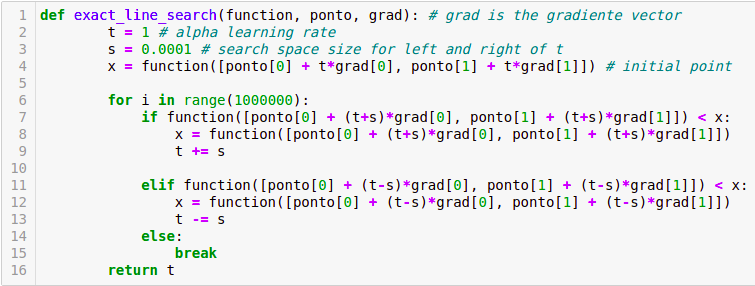
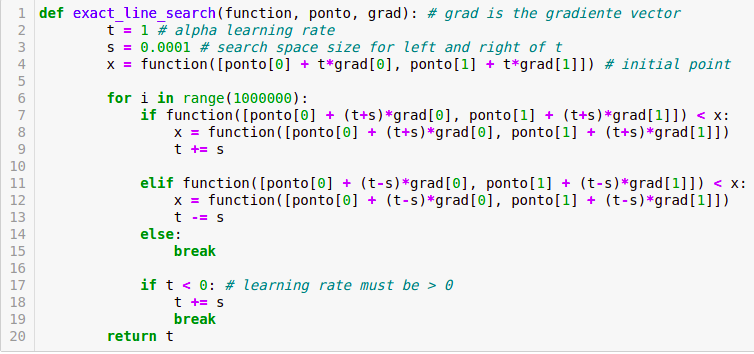
commit

Changed region(s): [[0.0, 0.0, 1.0, 1.0]]

diff --git a/README.md b/README.md
@@ -14,7 +14,7 @@ This repository contains the Python code for the implementations of the followin
 # Exact Line Search
 The exact line search goal is find the learning rate (t), where *alpha* is given by: 
 
-***alpha = argmin f(x + alpha * ∆x)***
+***alpha = argmin f(x + alpha * ∆x) | alpha > 0***
 
 To find the *learning rate* (alpha) using *exact line search* for the *function f(x1, x2)*, the *hill climbing* algorithm was used. As *f(x1, x2)* cannot be solved analytically, so this approach was the simplest and fastest found. 
 
